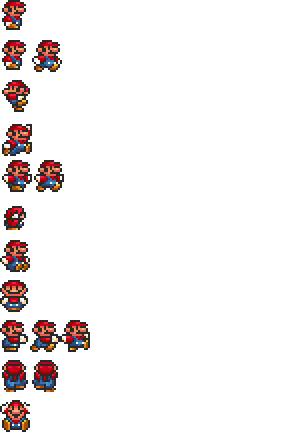
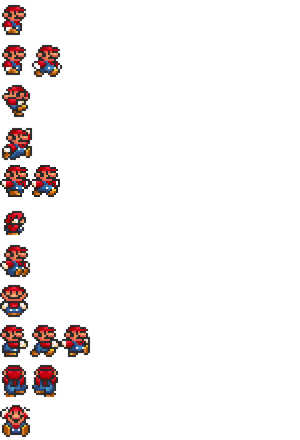
211024_0050
1. 마리오 이미지 수정(위치 조정)
2. Bug fixes
( 기본마리오 출력이 이상한 현상
, 기본마리오 충돌체크 범위 수정 )

Changed region(s): [[0.0, 0.0, 0.3, 1.0]]

diff --git a/Player.py b/Player.py
@@ -11,7 +11,7 @@ import Item_TransForm
 class Character:
     def __init__(self):
         # 변신 관련 변수
-        self.transform = 1          # 변신 상태 (0: 기본, 1: 슈퍼마리오, 2: 파이어마리오)
+        self.transform = 0          # 변신 상태 (0: 기본, 1: 슈퍼마리오, 2: 파이어마리오)
 
         # 기본
         self.image = load_image('Mario.png')
@@ -316,7 +316,10 @@ class Character:
         #=== Dash
         elif self.status == c_state.S_Dash:
             # 이동
-            self.frame = (self.frame + 1) % 4
+            if self.transform == 0:
+                self.frame = (self.frame + 1) % 2
+            else:
+                self.frame = (self.frame + 1) % 4
             if self.isLeft:
                 self.x -= 10
             else:
